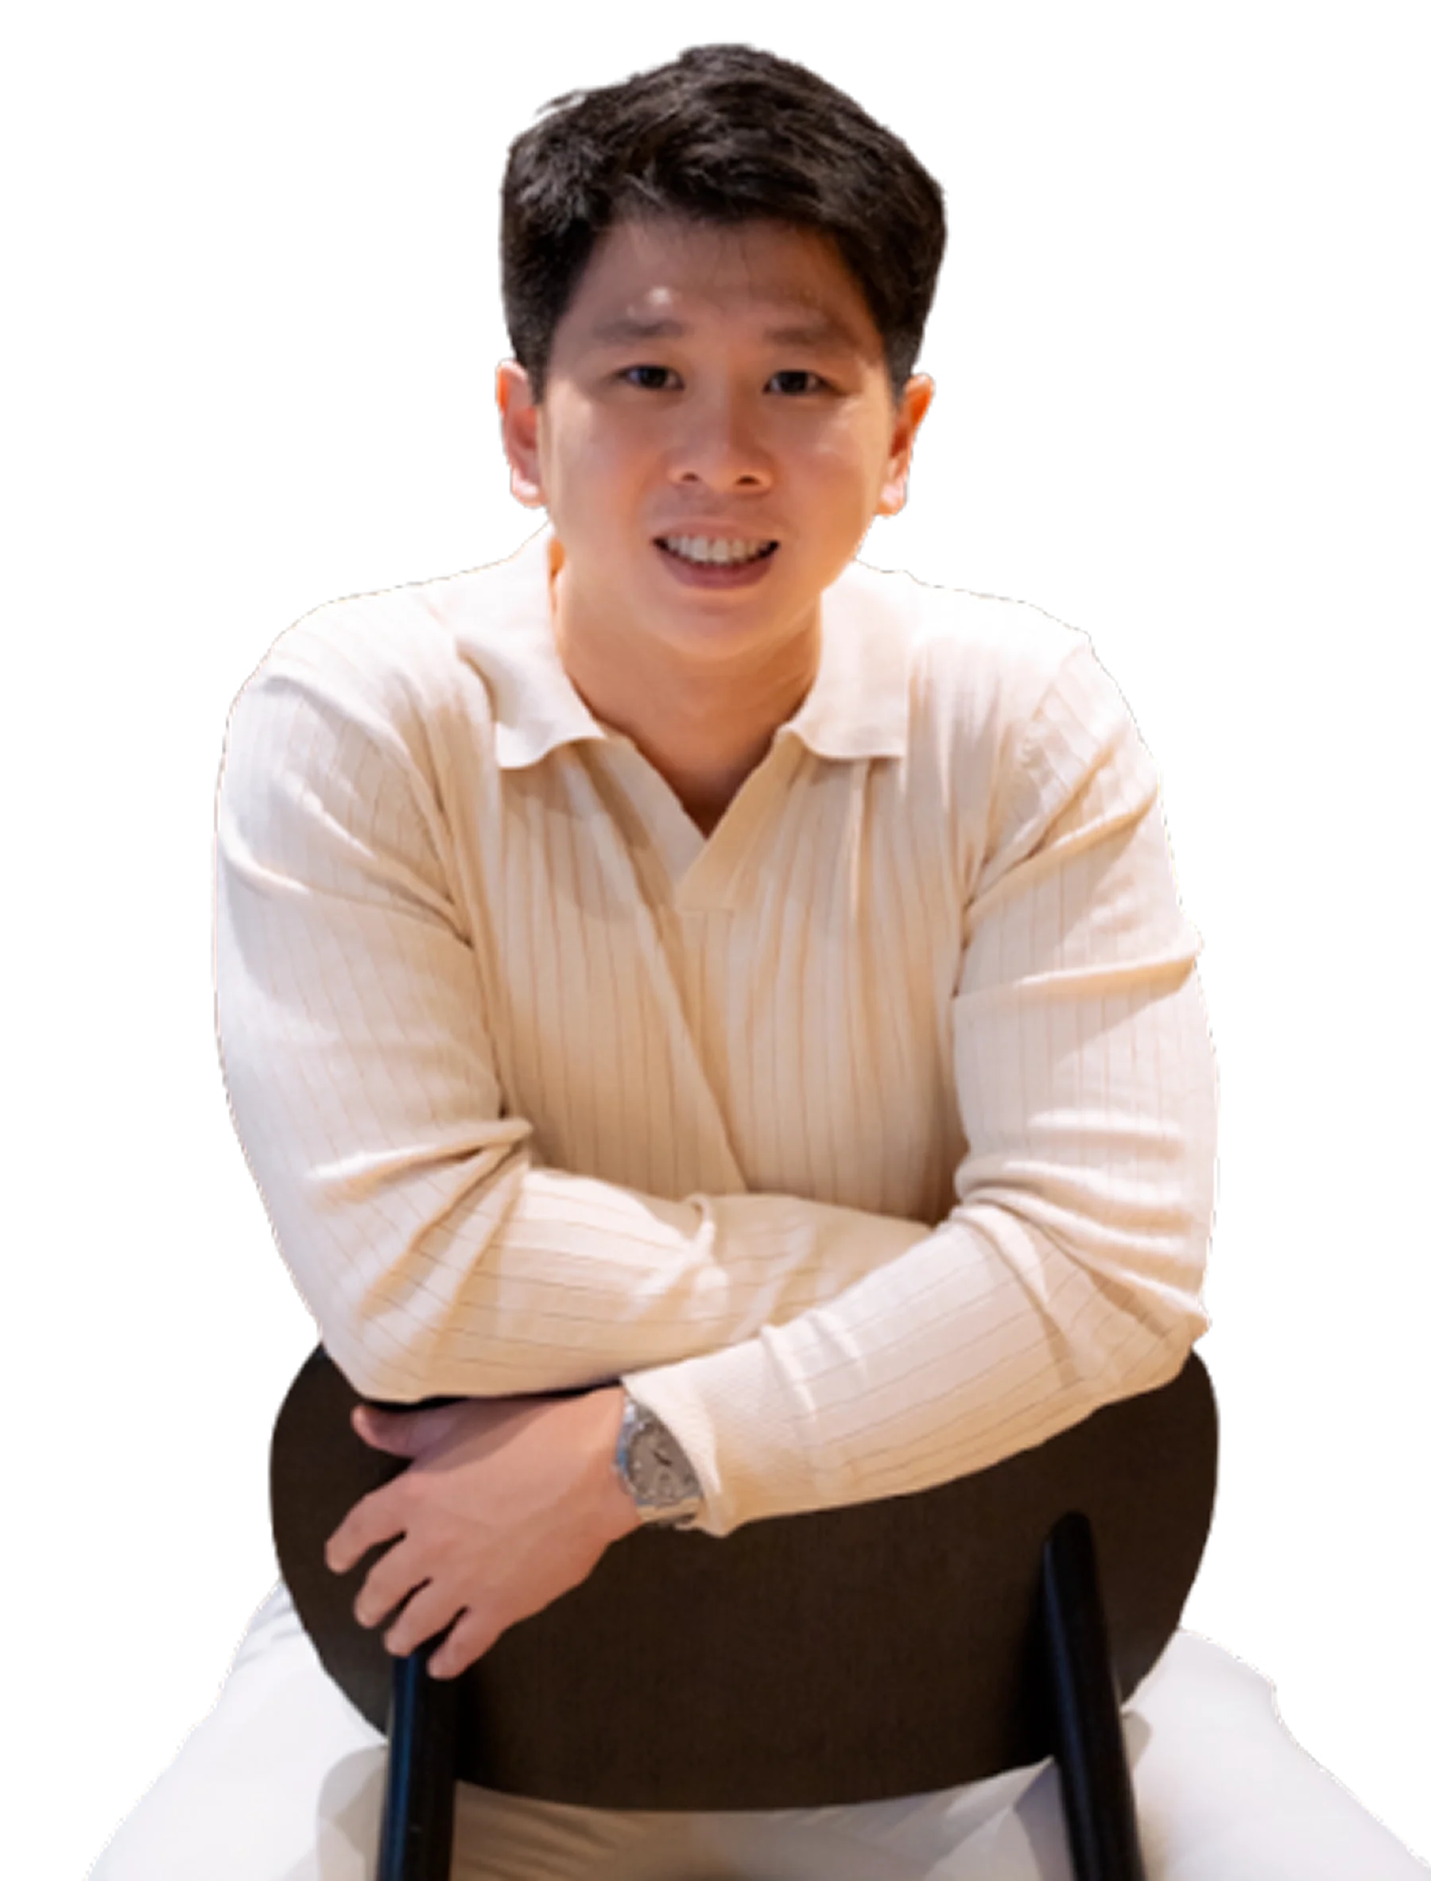
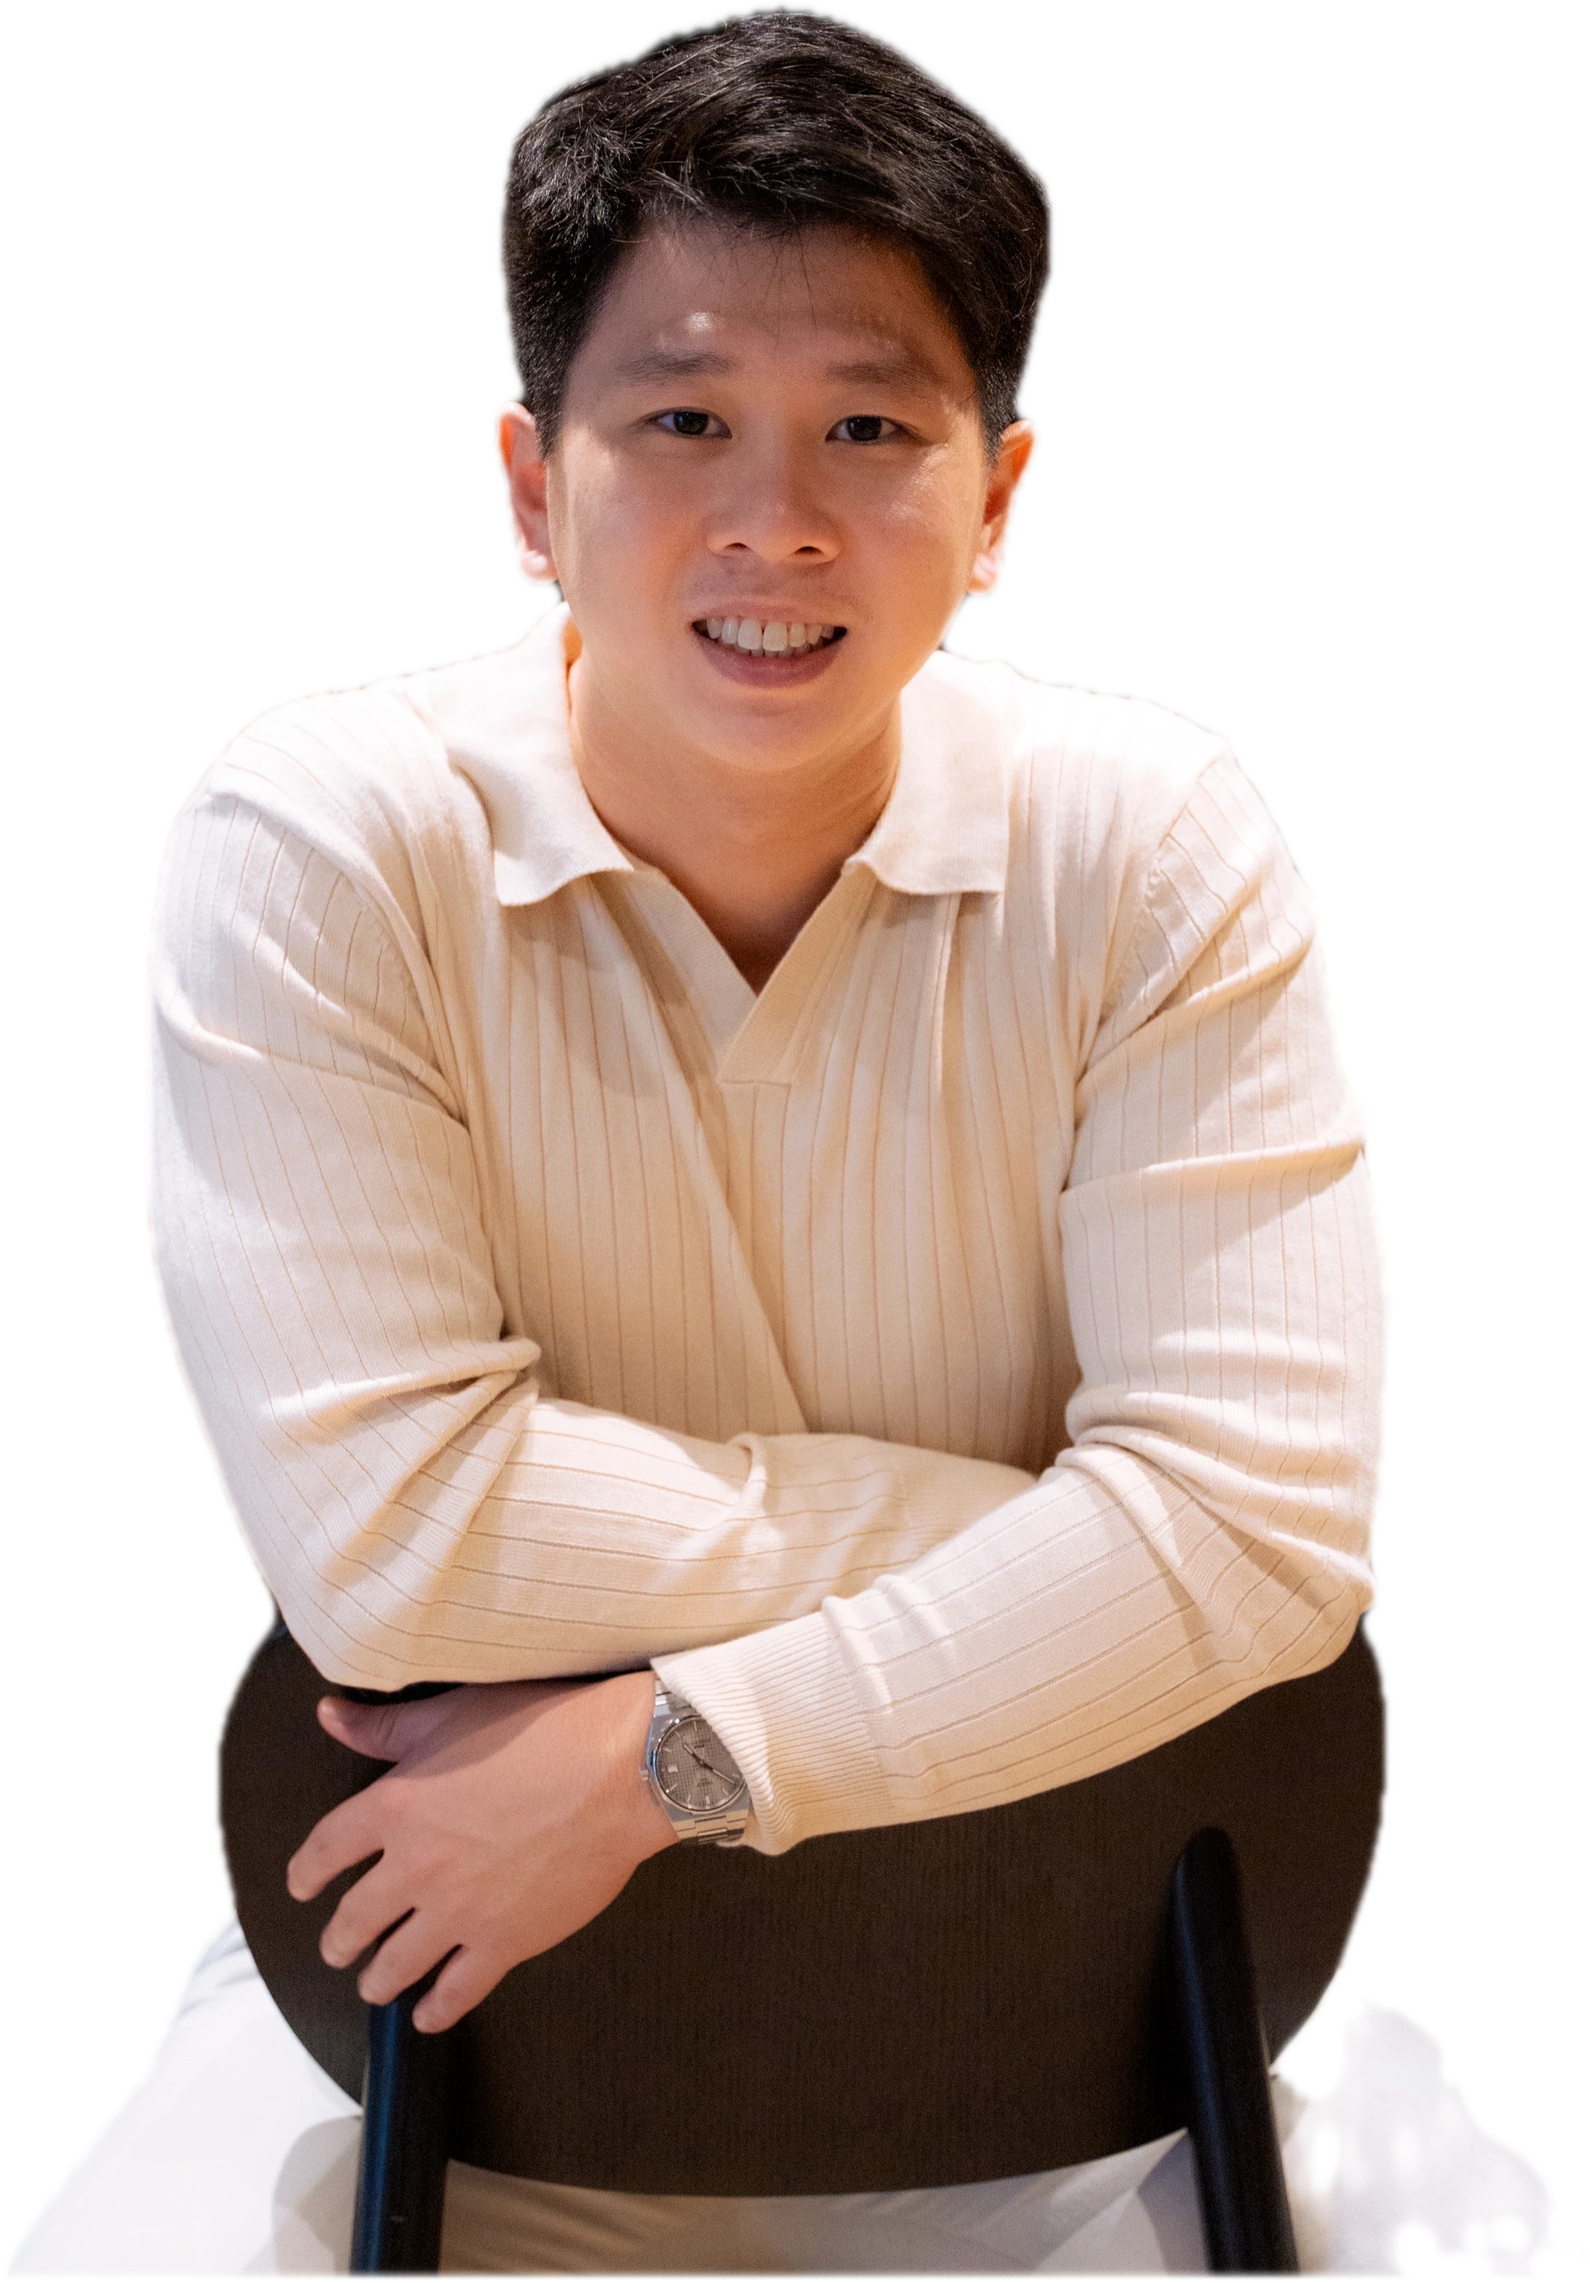
Sharper hero cut-out, current-role dot, autoplay fix
- Hero: re-cut from the original photo with macOS Vision subject lift,
  defringed so no dark outline. Replaces the low-res cut-out.
- Work: PSYKHE gets "Vibe Engineering" and a green Current dot;
  Nodemation link removed (site is down), also dropped from SEO data.
- Music: scroll used up the single autoplay attempt, so a later click
  never started the song. Now retries on each click/tap/key until it
  starts once; a manual pause still sticks.

Changed region(s): [[0.0933, 0.0, 0.9333, 1.0], [0.56, 0.7405, 0.7156, 0.8022], [0.9644, 0.9873, 1.0, 1.0]]

diff --git a/src/components/Work.jsx b/src/components/Work.jsx
@@ -4,13 +4,14 @@ const PROJECTS = [
   {
     num: '01',
     name: 'PSYKHE',
-    type: 'Product Design Consultant · UX Research',
+    type: 'Vibe Engineering · Product Design Consultant · UX Research',
     year: 'May 2026 - Now',
     description:
       "Contracting with PSYKHE, a product design and UX research consultancy, on DBS projects. Shipped two mortgage lending modules, now on bancassurance. I also run the team's Claude training and build our internal AI tools.",
     metrics: ['Sign-off in 3 Months', '2 Screens → 1', '3-Session AI Programme'],
     tags: ['Figma', 'Design Systems', 'UX Research', 'Claude Code', 'Vercel'],
     status: 'Current',
+    current: true,
     href: null,
   },
   {
@@ -22,8 +23,8 @@ const PROJECTS = [
       "Founded Nodemation, a Singapore-registered AI automation agency. We automate what's stealing your time. Builds n8n workflows, LLM integrations, and voice AI agents for SMEs.",
     metrics: ['n8n Workflows', 'LLM Integrations', 'Voice AI Agents'],
     tags: ['n8n', 'Claude', 'Retell AI', 'Airtable', 'Twilio', 'OpenRouter'],
-    status: 'nodemation.pro →',
-    href: 'https://www.nodemation.pro',
+    status: null,
+    href: null,
   },
   {
     num: '03',
@@ -62,6 +63,16 @@ const PROJECTS = [
     href: null,
   },
 ];
+
+/* Live indicator for the role I'm in now */
+function CurrentDot() {
+  return (
+    <span className="relative inline-flex w-1.5 h-1.5 mr-2 align-middle -translate-y-px">
+      <span className="absolute inset-0 rounded-full bg-emerald-500 opacity-60 motion-safe:animate-ping" />
+      <span className="relative w-1.5 h-1.5 rounded-full bg-emerald-500" />
+    </span>
+  );
+}
 
 function ProjectRow({ project, index }) {
   return (
@@ -104,6 +115,11 @@ function ProjectRow({ project, index }) {
               {project.status}
             </span>
           )}
+          {project.current && (
+            <span className="text-[11px] tracking-[0.2em] uppercase font-semibold text-ink/70">
+              <CurrentDot />{project.status}
+            </span>
+          )}
         </div>
 
         {/* Desktop layout */}
@@ -138,8 +154,8 @@ function ProjectRow({ project, index }) {
 
           <div className="col-span-2 flex flex-col items-end justify-between">
             <span className="text-[11px] tracking-[0.18em] uppercase text-ink/35 font-medium text-right">{project.year}</span>
-            <span className={`text-[11px] tracking-[0.2em] uppercase font-semibold ${project.href ? 'text-ink underline underline-offset-4 decoration-ink/25' : 'text-ink/28'}`}>
-              {project.status}
+            <span className={`text-[11px] tracking-[0.2em] uppercase font-semibold ${project.href ? 'text-ink underline underline-offset-4 decoration-ink/25' : project.current ? 'text-ink/70' : 'text-ink/28'}`}>
+              {project.current && <CurrentDot />}{project.status}
             </span>
           </div>
         </div>

diff --git a/src/components/MusicPlayer.jsx b/src/components/MusicPlayer.jsx
@@ -31,6 +31,8 @@ export default function MusicPlayer() {
   const containerRef = useRef(null);
   const intervalRef = useRef(null);
   const userInteracted = useRef(false);
+  const started = useRef(false);
+  const lastTry = useRef(0);
   const hideTimer = useRef(null);
   const autoHideTimer = useRef(null);
 
@@ -62,6 +64,7 @@ export default function MusicPlayer() {
           onStateChange: (e) => {
             const YT = window.YT.PlayerState;
             const isPlaying = e.data === YT.PLAYING;
+            if (isPlaying) started.current = true;
             setPlaying(isPlaying);
             const data = playerRef.current?.getVideoData();
             if (data?.title) setTitle(data.title);
@@ -97,15 +100,20 @@ export default function MusicPlayer() {
     };
   }, []);
 
-  /* ── Auto-play on first user interaction ── */
+  /* ── Auto-play on user interaction ──
+     Browsers only allow sound after a click, tap or key press, so a scroll
+     alone is usually blocked. Keep retrying on each interaction until the
+     song has actually started once, then stop (so a manual pause sticks). */
   useEffect(() => {
-    const EVENTS = ['click', 'scroll', 'touchstart', 'pointerdown', 'keydown'];
-    const onInteraction = () => {
-      if (userInteracted.current) return;
+    const EVENTS = ['click', 'scroll', 'touchend', 'pointerdown', 'keydown'];
+    const onInteraction = (e) => {
+      if (started.current) return;
       userInteracted.current = true;
-      // If player already ready, play immediately
-      if (playerRef.current) playerRef.current.playVideo();
-      // Otherwise onReady will pick up userInteracted and play
+      const now = Date.now();
+      if (e.type === 'scroll' && now - lastTry.current < 500) return; // scroll fires constantly
+      lastTry.current = now;
+      // If player already ready, play now; otherwise onReady picks up userInteracted
+      playerRef.current?.playVideo?.();
     };
     EVENTS.forEach(e => window.addEventListener(e, onInteraction, { passive: true }));
     return () => EVENTS.forEach(e => window.removeEventListener(e, onInteraction));

diff --git a/index.html b/index.html
@@ -38,9 +38,9 @@
       "name": "Fabian Wong",
       "url": "https://fabianw.com",
       "jobTitle": "Product Designer, Product Manager, AI Engineer",
-      "worksFor": { "@type": "Organization", "name": "Nodemation" },
+      "worksFor": { "@type": "Organization", "name": "PSYKHE" },
       "address": { "@type": "PostalAddress", "addressCountry": "SG", "addressLocality": "Singapore" },
-      "sameAs": ["https://nodemation.pro"]
+      "sameAs": ["https://www.linkedin.com/in/fabian-wong/"]
     }
     </script>
 
